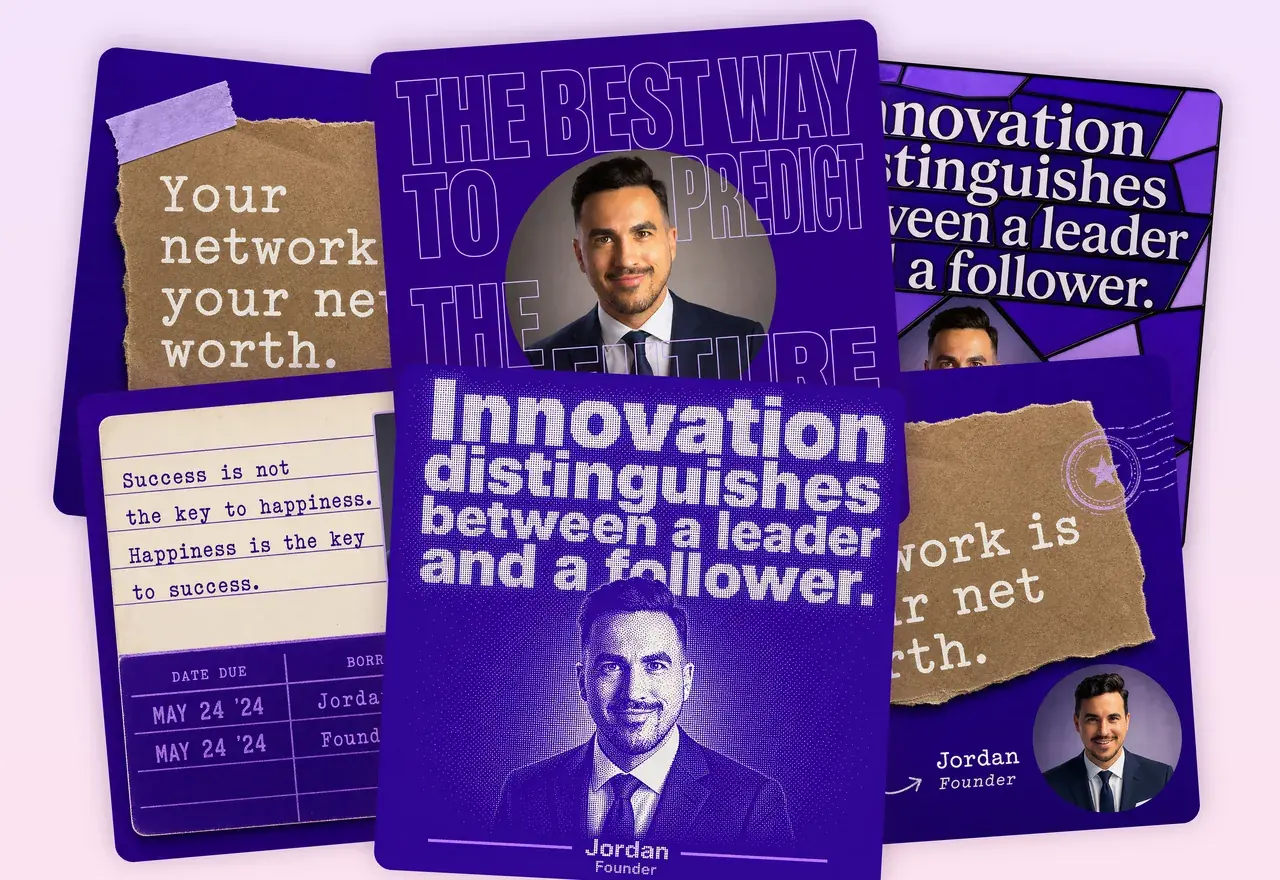
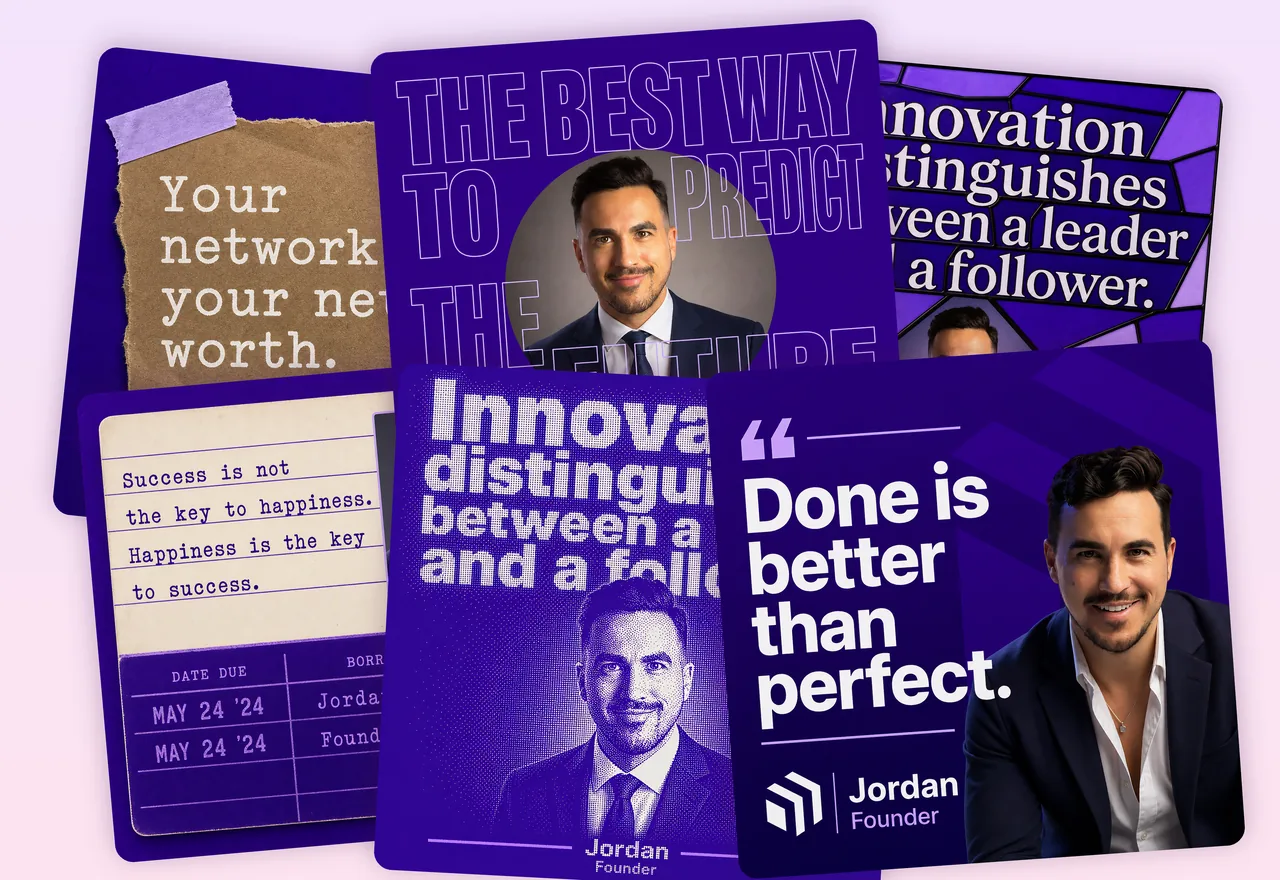
Sync: Fiverr header + mobile reorder + OTO quotes Done-is-better + 20min timer

Changed region(s): [[0.5312, 0.3682, 1.0, 1.0]]

diff --git a/oto1.html b/oto1.html
@@ -140,6 +140,14 @@ section{padding:84px 0}
 .cr-list{list-style:none;margin-top:16px;display:flex;flex-direction:column;gap:9px}
 .cr-list li{display:flex;gap:10px;font-size:.96rem;color:var(--text-body)}.cr-list .tk{color:var(--success);font-weight:800;flex-shrink:0}
 .cr-media img{border-radius:var(--radius-lg);box-shadow:0 18px 44px rgba(191,15,201,.16);border:1px solid var(--border);width:100%}
+.fv-head{max-width:780px;margin:0 auto 36px;text-align:center}
+.fv-head h2{margin-bottom:12px}
+.fv-head .fv-sub{font-size:1.08rem;color:var(--text-body)}
+.crow.fv-row{grid-template-areas:"head media" "body media";align-items:center}
+.crow.fv-row .cr-head{grid-area:head;margin-bottom:6px}
+.crow.fv-row .cr-head h3{margin:6px 0 0}
+.crow.fv-row .cr-body{grid-area:body}
+.crow.fv-row .cr-media{grid-area:media}
 
 /* long-form future-pace (skimmable) */
 .longform .lf{max-width:720px;margin:0 auto;text-align:center}
@@ -208,6 +216,7 @@ footer{background:#1001,000;color:#9a8fae;padding:30px 0;text-align:center;font-
   .boxshot-grid{grid-template-columns:1fr;gap:26px}
   .ggrid{grid-template-columns:repeat(2,1fr)}
   .crow{grid-template-columns:1fr;gap:24px}.crow .cr-media,.crow.flip .cr-media{order:-1}.crow .cr-text,.crow.flip .cr-text{order:2}
+  .crow.fv-row{grid-template-columns:1fr;grid-template-areas:"head" "media" "body"}.crow.fv-row .cr-head{text-align:center}
 }
 @media(max-width:600px){
   section{padding:46px 0}.container{padding:0 16px}
@@ -236,7 +245,7 @@ footer{background:#1001,000;color:#9a8fae;padding:30px 0;text-align:center;font-
 <!-- 2. TOPBAR -->
 <header class="topbar"><div class="topbar-in">
   <span class="lg"><img src="https://launch-partner.github.io/mediaplace-pbs-preview/assets/mediaplace-logo.svg" alt="MediaPlace"></span>
-  <div class="tb-mid"><span class="step-pill">Step 2 of 3</span><span class="cd">Expires in <strong id="cd">10:00</strong></span><a href="#" class="tb-cta">Add for $67</a></div>
+  <div class="tb-mid"><span class="step-pill">Step 2 of 3</span><span class="cd">Expires in <strong id="cd">20:00</strong></span><a href="#" class="tb-cta">Add for $67</a></div>
 </div></header>
 
 <!-- 3. HERO -->
@@ -480,11 +489,18 @@ footer{background:#1001,000;color:#9a8fae;padding:30px 0;text-align:center;font-
 
 <!-- 9. LONG-FORM FUTURE-PACE (skimmable) -->
 <section class="longform"><div class="container">
-  <div class="crow reveal">
-    <div class="cr-text">
+  <div class="fv-head reveal">
+    <h2>You get full commercial-use rights</h2>
+    <p class="fv-sub">Every asset the Studio makes is yours to keep and sell. People pay real money on Fiverr for exactly what you create here in one click.</p>
+  </div>
+  <div class="crow fv-row reveal">
+    <div class="cr-head">
       <div class="cr-eyebrow">Make your money back</div>
       <h3>Sell ONE asset and the $67 is already paid for</h3>
-      <p>You get full commercial-use rights, so you can sell every asset to clients as a paid service. People charge real money on Fiverr for exactly what the Studio makes in one click:</p>
+    </div>
+    <div class="cr-media"><img src="https://launch-partner.github.io/mediaplace-pbs-preview/assets/oto-fiverr.webp" loading="lazy" decoding="async" alt="Real Fiverr gigs selling the same assets MediaPlace makes"></div>
+    <div class="cr-body cr-text">
+      <p>So you can sell every asset to clients as a paid service. People charge real money on Fiverr for exactly what the Studio makes in one click:</p>
       <ul class="cr-list">
         <li><span class="tk">✓</span> Sell YouTube thumbnails, people charge around $55</li>
         <li><span class="tk">✓</span> Sell LinkedIn banners, around $45</li>
@@ -499,7 +515,6 @@ footer{background:#1001,000;color:#9a8fae;padding:30px 0;text-align:center;font-
         <a href="downsell.html" class="decline">No thanks, I will pass on the bundle</a>
       </div>
     </div>
-    <div class="cr-media"><img src="https://launch-partner.github.io/mediaplace-pbs-preview/assets/oto-fiverr.webp" loading="lazy" decoding="async" alt="Real Fiverr gigs selling the same assets MediaPlace makes"></div>
   </div>
 </div></section>
 
@@ -603,7 +618,7 @@ footer{background:#1001,000;color:#9a8fae;padding:30px 0;text-align:center;font-
 <script>
 document.getElementById('yr').textContent=new Date().getFullYear();
 document.querySelectorAll('.faq-q').forEach(function(b){b.addEventListener('click',function(){var o=b.getAttribute('aria-expanded')==='true';var a=b.nextElementSibling;b.setAttribute('aria-expanded',!o);a.style.maxHeight=o?null:a.scrollHeight+'px'})});
-(function(){var KEY='mp_oto1_end';var end=localStorage.getItem(KEY);if(!end){end=Date.now()+30*60*1000;localStorage.setItem(KEY,end)}end=parseInt(end,10);var el=document.getElementById('cd');function t(){var s=Math.floor((end-Date.now())/1000);if(s<=0){var cd=el&&el.closest('.cd');if(cd)cd.style.display='none';return}var m=String(Math.floor(s/60)).padStart(2,'0');var ss=String(s%60).padStart(2,'0');if(el)el.textContent=m+':'+ss}t();setInterval(t,1000)})();
+(function(){var KEY='mp_oto1_end';var end=localStorage.getItem(KEY);if(!end){end=Date.now()+20*60*1000;localStorage.setItem(KEY,end)}end=parseInt(end,10);var el=document.getElementById('cd');function t(){var s=Math.floor((end-Date.now())/1000);if(s<=0){var cd=el&&el.closest('.cd');if(cd)cd.style.display='none';return}var m=String(Math.floor(s/60)).padStart(2,'0');var ss=String(s%60).padStart(2,'0');if(el)el.textContent=m+':'+ss}t();setInterval(t,1000)})();
 (function(){if(window.matchMedia&&window.matchMedia('(prefers-reduced-motion: reduce)').matches)return;var els=[].slice.call(document.querySelectorAll('.reveal'));if(!('IntersectionObserver'in window)){els.forEach(function(e){e.classList.add('in')});return}var io=new IntersectionObserver(function(en){en.forEach(function(x){if(x.isIntersecting){x.target.classList.add('in');io.unobserve(x.target)}})},{threshold:0.08,rootMargin:'0px 0px -40px 0px'});els.forEach(function(e){io.observe(e)})})();
 </script>
 </body>

diff --git a/index.html b/index.html
@@ -190,6 +190,15 @@ section{padding:74px 0}
 .fv-list li{position:relative;padding-left:30px;font-size:1.02rem;color:var(--text-body)}
 .fv-list li::before{content:'\2713';position:absolute;left:0;color:var(--success);font-weight:800}
 .fv-media img{width:100%;height:auto;display:block;border-radius:var(--radius-lg);box-shadow:0 20px 48px rgba(203,26,235,.16)}
+.fv-head{max-width:780px;margin:0 auto 36px;text-align:center}
+.fv-head h2{margin-bottom:12px}
+.fv-head .fv-sub{font-size:1.08rem;color:var(--text-body)}
+.crow.fv-row{grid-template-areas:"head media" "body media";align-items:center}
+.crow.fv-row .cr-head{grid-area:head;margin-bottom:14px}
+.crow.fv-row .cr-head h3{margin:8px 0 0}
+.crow.fv-row .cr-body{grid-area:body}
+.crow.fv-row .fv-media{grid-area:media}
+@media(max-width:860px){.crow.fv-row{grid-template-columns:1fr;grid-template-areas:"head" "media" "body"}.crow.fv-row .cr-head{text-align:center}.crow.fv-row .btn-primary{display:block;width:fit-content;margin-left:auto;margin-right:auto}}
 .cr-ph{aspect-ratio:4/3;display:flex;align-items:center;justify-content:center;text-align:center;background:repeating-linear-gradient(135deg,#f3e3fb,#f3e3fb 14px,#efe0f7 14px,#efe0f7 28px);border:2px dashed var(--brand-light);color:var(--brand-deep);font-weight:700;font-size:.95rem;line-height:1.4;box-shadow:none}
 
 /* Credits "pays for itself" band */
@@ -536,11 +545,18 @@ footer{background:#100920;color:#9a8fae;padding:30px 0;text-align:center;font-si
 
 <!-- 9.6 MAKE YOUR MONEY BACK (Fiverr proof) -->
 <section class="sec-warm"><div class="container">
-  <div class="crow" data-reveal>
-    <div class="cr-text">
+  <div class="fv-head" data-reveal>
+    <h2>You get full commercial-use rights</h2>
+    <p class="fv-sub">Every asset the Studio makes is yours to keep and sell. People pay real money on Fiverr for exactly what you create here in one click.</p>
+  </div>
+  <div class="crow fv-row" data-reveal>
+    <div class="cr-head">
       <span class="eyebrow">Make your money back</span>
       <h3>Sell ONE asset and the $47 is already paid for</h3>
-      <p>You get full commercial-use rights, so you can sell every asset to clients as a paid service. People charge real money on Fiverr for exactly what the Studio makes in one click:</p>
+    </div>
+    <div class="fv-media"><img src="assets/oto-fiverr.webp" width="1280" height="1000" loading="lazy" decoding="async" alt="Real Fiverr gigs selling the same assets MediaPlace makes"></div>
+    <div class="cr-body cr-text">
+      <p>So you can sell every asset to clients as a paid service. People charge real money on Fiverr for exactly what the Studio makes in one click:</p>
       <ul class="fv-list">
         <li>Sell YouTube thumbnails, people charge around $55</li>
         <li>Sell LinkedIn banners, around $45</li>
@@ -548,9 +564,8 @@ footer{background:#100920;color:#9a8fae;padding:30px 0;text-align:center;font-si
         <li>Sell AI headshots, around $60</li>
       </ul>
       <p style="margin-top:16px;font-weight:700">Sell ONE to ONE client and your <span class="grad-text">whole $47 is already paid for</span>. Everything after that is pure upside, for life.</p>
-      <a href="#pricing" class="btn-primary" style="margin-top:10px">YES! Unlock the Studio for $47 →</a>
+      <a href="#pricing" class="btn-primary" style="margin-top:26px">YES! Unlock the Studio for $47 →</a>
     </div>
-    <div class="fv-media"><img src="assets/oto-fiverr.webp" width="1280" height="1000" loading="lazy" decoding="async" alt="Real Fiverr gigs selling the same assets MediaPlace makes"></div>
   </div>
 </div></section>
 